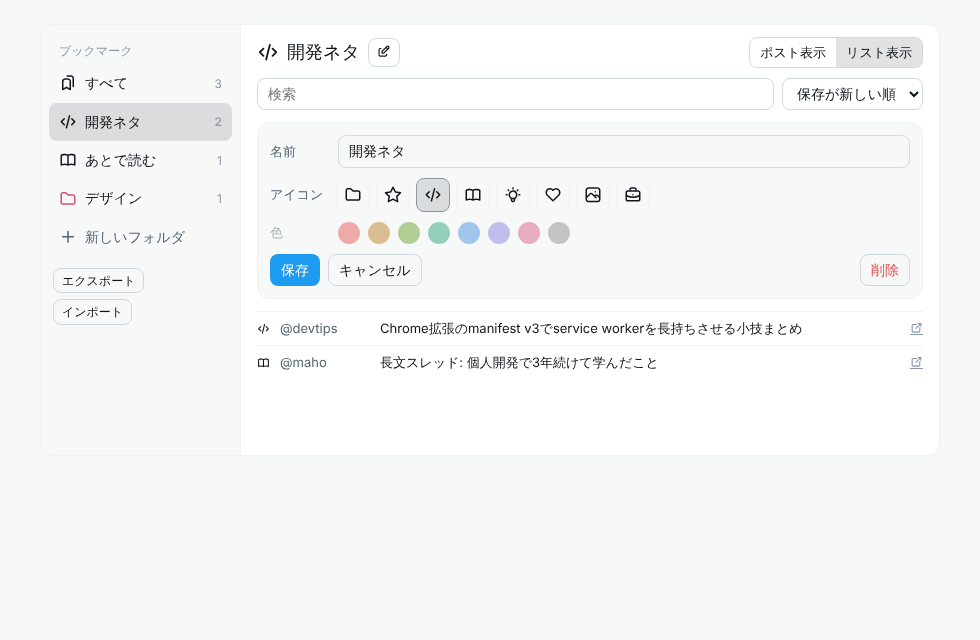
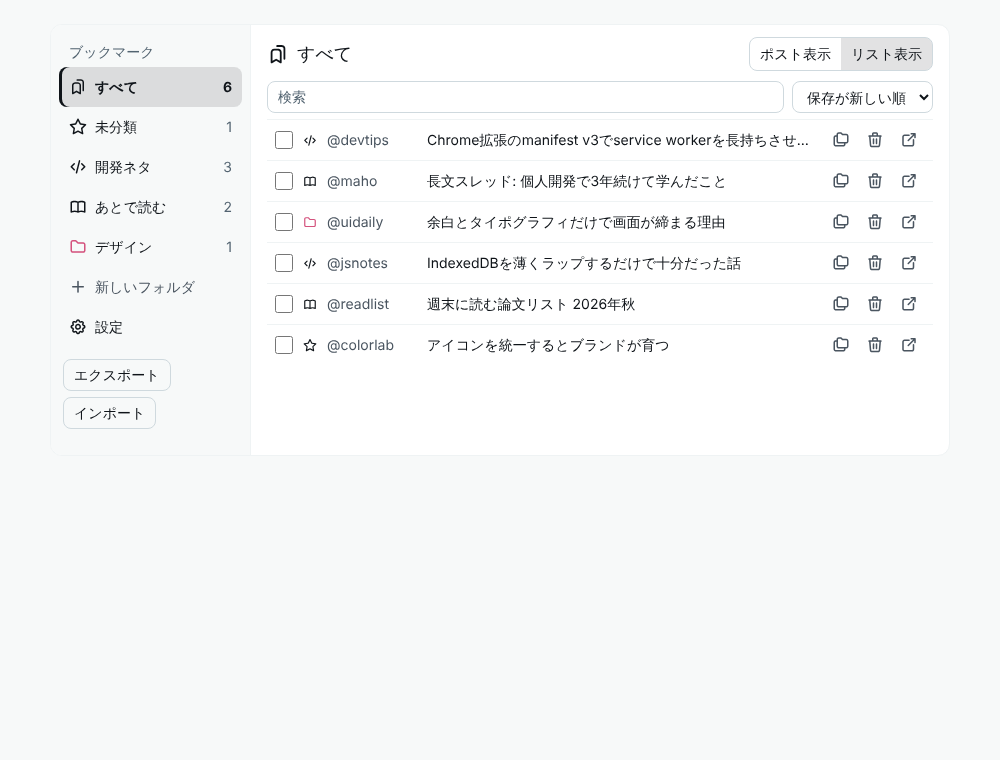
C: 見やすさの改善 (14px 以上、コントラスト 4.5:1、フォーカスリング、選択状態の非色表現、32px の判定、スクリーンショット更新)
Claude-Session: https://claude.ai/code/session_01LnJgDCHXRj2XU4oDVsQkv2

diff --git a/static/manager.css b/static/manager.css
@@ -1,81 +1,83 @@
 @import url("icons/tabler-icons.min.css");
 :root{
-  --text-primary:#0f1419;--text-secondary:#536471;--text-muted:#8b98a5;
+  --text-primary:#0f1419;--text-secondary:#4a5560;--text-muted:#536471;
   --surface-1:#f7f9f9;--surface-2:#fff;--surface-3:#fff;
   --border:#eff3f4;--border-strong:#cfd9de;--border-stronger:#8b98a5;
   --fill-ghost-hover:rgba(15,20,25,.06);--fill-ghost-selected:rgba(15,20,25,.12);--fill-control:#cfd9de;
-  --fill-accent:#1d9bf0;--on-accent:#fff;--bg-accent:#e8f5fe;--text-accent:#1a8cd8;
+  --fill-accent:#1d9bf0;--on-accent:#fff;--bg-accent:#e8f5fe;--text-accent:#0b6fb8;
+  --accent-strong:#0b6fb8;--danger:#c0302f;--danger-solid:#c0302f;
   --shadow-popover:0 8px 24px rgba(0,0,0,.12),0 2px 6px rgba(0,0,0,.08);--radius:8px;
 }
 @media (prefers-color-scheme:dark){:root{
-  --text-primary:#e7e9ea;--text-secondary:#71767b;--text-muted:#536471;
+  --text-primary:#e7e9ea;--text-secondary:#9aa2a8;--text-muted:#8b98a5;
   --surface-1:#16181c;--surface-2:#000;--surface-3:#16181c;
   --border:#2f3336;--border-strong:#536471;--border-stronger:#71767b;
   --fill-ghost-hover:rgba(231,233,234,.08);--fill-ghost-selected:rgba(231,233,234,.16);--fill-control:#2f3336;
-  --bg-accent:#031018;--text-accent:#1d9bf0;
+  --bg-accent:#031018;--text-accent:#1d9bf0;--danger:#f06a68;
 }}
 *{box-sizing:border-box}
 body{margin:0;padding:24px;background:var(--surface-1);color:var(--text-primary);font:14px/1.6 system-ui,"Hiragino Sans","Yu Gothic",sans-serif}
 h1{font-size:16px;font-weight:500;margin:0 0 4px}
-.note{color:var(--text-secondary);font-size:12px;margin:0 0 16px}
-button,input{font:inherit;color:inherit;background:transparent;border:.5px solid var(--border-strong);border-radius:var(--radius);padding:4px 10px;cursor:pointer}
+.note{color:var(--text-secondary);font-size:14px;margin:0 0 16px}
+button,input{min-height:32px;font:inherit;color:inherit;background:transparent;border:.5px solid var(--border-strong);border-radius:var(--radius);padding:4px 10px;cursor:pointer}
 input{cursor:text}
 body{padding:24px}
-select{font:inherit;color:inherit;background:transparent;border:.5px solid var(--border-strong);border-radius:var(--radius);padding:4px 10px}
+select{min-height:32px;font:inherit;color:inherit;background:transparent;border:.5px solid var(--border-strong);border-radius:var(--radius);padding:4px 10px}
 button:hover{background:var(--fill-ghost-hover)}
 button:disabled{cursor:not-allowed}
 .ps{display:grid;grid-template-columns:200px minmax(0,1fr);border:.5px solid var(--border);border-radius:12px;overflow:hidden;background:var(--surface-2);max-width:900px;margin:0 auto}
 .side{border-right:.5px solid var(--border);padding:12px 8px;background:var(--surface-1)}
-.side-title{font-size:12px;color:var(--text-muted);padding:4px 10px}
+.side-title{font-size:14px;color:var(--text-muted);padding:4px 10px}
 .fr{display:flex;align-items:center;gap:8px;padding:8px 10px;border-radius:8px;cursor:pointer}
-.fr:hover{background:var(--fill-ghost-hover)}.fr.on{background:var(--fill-ghost-selected);font-weight:500}
-.fr i{font-size:18px}.fr .n{margin-left:auto;font-size:12px;color:var(--text-muted)}
+.fr:hover{background:var(--fill-ghost-hover)}.fr.on{background:var(--fill-ghost-selected);font-weight:700;box-shadow:inset 3px 0 0 var(--text-primary)}
+.fr.on .n{color:var(--text-primary)}
+.fr i{font-size:18px}.fr .n{margin-left:auto;font-size:14px;color:var(--text-muted)}
 .fr-name{overflow:hidden;text-overflow:ellipsis;white-space:nowrap}
 .fr.add{color:var(--text-secondary)}
-.io button,.file-btn{white-space:nowrap}.io{display:flex;flex-wrap:wrap;gap:6px;margin:12px 4px 0}.io button,.file-btn{font-size:12px;padding:2px 8px}
+.io button,.file-btn{white-space:nowrap}.io{display:flex;flex-wrap:wrap;gap:6px;margin:12px 4px 0}.io button,.file-btn{font-size:14px;padding:2px 10px;min-height:32px;display:inline-flex;align-items:center}
 .file-btn{border:.5px solid var(--border-strong);border-radius:var(--radius);cursor:pointer}
 .file-btn:hover{background:var(--fill-ghost-hover)}
 .main{padding:12px 16px;min-height:430px}
 .bar{display:flex;align-items:center;gap:8px;margin-bottom:10px;flex-wrap:wrap}
 .bar>i{font-size:22px}.bar-name{font-size:18px;font-weight:500}
-.icon-only{padding:2px 8px}
+.icon-only{min-width:32px;padding:2px 8px}
 .seg{display:flex;border:.5px solid var(--border-strong);border-radius:8px;overflow:hidden;margin-left:auto}
-.seg button{border:none;border-radius:0;padding:4px 10px;font-size:13px;white-space:nowrap}.seg button.on{background:var(--fill-ghost-selected)}
+.seg button{border:none;border-radius:0;padding:4px 10px;font-size:14px;white-space:nowrap}.seg button.on{background:var(--fill-ghost-selected)}
 .tools{display:flex;gap:8px;margin-bottom:6px}.tools input{flex:1}
-.post{display:flex;gap:10px;padding:10px 0;border-top:.5px solid var(--border)}
-.av{width:36px;height:36px;border-radius:50%;background:var(--fill-control);flex:none;display:flex;align-items:center;justify-content:center;font-size:12px;font-weight:500;object-fit:cover}
+.post{display:flex;gap:12px;padding:14px 8px;border-top:.5px solid var(--border)}
+.av{width:36px;height:36px;border-radius:50%;background:var(--fill-control);flex:none;display:flex;align-items:center;justify-content:center;font-size:14px;font-weight:500;object-fit:cover}
 .post-body{min-width:0;flex:1}
 .post-head{font-weight:500}.muted{font-weight:400;color:var(--text-muted)}
-.text{line-height:1.5;white-space:pre-wrap;overflow-wrap:anywhere}
-.media img{max-width:100%;border-radius:12px;margin-top:6px;border:.5px solid var(--border)}
-.act{display:flex;gap:8px;margin-top:6px;color:var(--text-muted);font-size:13px;align-items:center;flex-wrap:wrap}
+.text{margin-top:2px;line-height:1.6;white-space:pre-wrap;overflow-wrap:anywhere}
+.media img{max-width:100%;border-radius:12px;margin-top:10px;border:.5px solid var(--border)}
+.act{display:flex;gap:8px;margin-top:10px;color:var(--text-muted);font-size:14px;align-items:center;flex-wrap:wrap}
 .ext-link{margin-left:auto;color:var(--text-muted)}
-.mini{display:flex;align-items:center;gap:10px;padding:6px 0;border-top:.5px solid var(--border);font-size:13px}
+.mini{display:flex;align-items:center;gap:10px;padding:4px 8px;min-height:40px;border-top:.5px solid var(--border);font-size:14px}
 .mini .t{flex:1;white-space:nowrap;overflow:hidden;text-overflow:ellipsis}
 .handle{color:var(--text-secondary);width:90px;overflow:hidden;text-overflow:ellipsis;white-space:nowrap}
 .edit{margin:12px 0;border:.5px solid var(--border);border-radius:12px;padding:12px;background:var(--surface-1)}
 .erow{display:flex;gap:8px;align-items:center;margin-bottom:10px}.erow:last-child{margin-bottom:0}.erow.wrap{flex-wrap:wrap;gap:6px}
-.elabel{font-size:13px;color:var(--text-secondary);min-width:60px;white-space:nowrap;flex:none}
+.elabel{font-size:14px;color:var(--text-secondary);min-width:60px;white-space:nowrap;flex:none}
 .grow{flex:1}
-.sw{width:22px;height:22px;border-radius:50%;padding:0;border:2px solid transparent}.sw.on{border-color:var(--text-primary)}
+.sw{position:relative;width:32px;height:32px;min-height:32px;padding:5px;border:0;border-radius:50%;background-clip:content-box}
+.sw.on{box-shadow:0 0 0 2px var(--text-primary) inset}
+.sw.on::after{content:'✓';position:absolute;inset:0;display:flex;align-items:center;justify-content:center;color:#fff;font-weight:700;text-shadow:0 0 3px rgba(0,0,0,.7)}
 .ic{width:34px;height:34px;display:inline-flex;align-items:center;justify-content:center;border-radius:8px;font-size:18px;border:.5px solid var(--border);padding:0}
-.ic.on{background:var(--fill-ghost-selected);border-color:var(--border-stronger)}
+.ic.on{background:var(--fill-ghost-selected);border:2px solid var(--text-primary)}
 .disabled{opacity:.45;pointer-events:none}
-.primary{background:var(--fill-accent);color:var(--on-accent);border-color:transparent}.primary:hover{background:var(--fill-accent);opacity:.9}
-.danger{color:#e24b4a;margin-left:auto}.error{color:#e24b4a;margin:0 0 8px}
+.primary{background:var(--accent-strong);color:#fff;border-color:transparent}.primary:hover{background:var(--accent-strong);opacity:.9}
+.danger{color:var(--danger);margin-left:auto}.error{color:var(--danger);margin:0 0 8px}
 .empty{color:var(--text-secondary)}
 @media (max-width:640px){.ps{grid-template-columns:1fr}.side{border-right:0;border-bottom:.5px solid var(--border)}}
 .setting{display:flex;gap:10px;align-items:flex-start;padding:10px 0;cursor:pointer}
 .setting input{margin-top:4px;accent-color:var(--fill-accent)}
-.setting-desc{display:block;font-size:13px;margin-top:2px}
+.setting-desc{display:block;font-size:14px;margin-top:2px}
 .setting-group{border:.5px solid var(--border);border-radius:12px;margin:12px 0;padding:4px 12px 8px}
 .setting-group legend{padding:0 6px;font-weight:500}
 
 /* ---- 整理 (複数選択 / 操作 / D&D / 確認 / トースト) ---- */
-.rows{outline:none}
 .post,.mini{position:relative}
 .post{align-items:flex-start}
-.post:focus-visible,.mini:focus-visible{outline:2px solid var(--fill-accent);outline-offset:-2px;border-radius:8px}
 .post.selected,.mini.selected{background:var(--bg-accent);box-shadow:inset 3px 0 0 var(--fill-accent)}
 .sel{width:18px;height:18px;margin:8px 0 0;padding:0;flex:none;accent-color:var(--fill-accent);cursor:pointer}
 .mini .sel{margin:0}
@@ -91,14 +93,22 @@ button:disabled{cursor:not-allowed}
 .picker-host{color:var(--text-primary)}
 .bulk{display:flex;gap:8px;align-items:center;flex-wrap:wrap;margin:8px 0;padding:8px 10px;border:.5px solid var(--border-strong);border-radius:12px;background:var(--bg-accent)}
 .bulk-clear{margin-left:auto}
-.chip{display:inline-flex;align-items:center;gap:4px;min-height:24px;padding:0 8px;border-radius:12px;cursor:pointer}
-.chip .ti-x{font-size:12px;opacity:.7}
+.chip{display:inline-flex;align-items:center;gap:4px;min-height:32px;padding:0 10px;border-radius:16px;cursor:pointer}
+.chip .ti-x{font-size:14px;opacity:.7}
 .chip:hover{background:var(--fill-ghost-hover)}
 .fr.drop{outline:2px dashed var(--fill-accent);outline-offset:-2px;background:var(--bg-accent)}
 .overlay{position:fixed;inset:0;z-index:50;display:flex;align-items:center;justify-content:center;background:rgba(0,0,0,.45)}
 .dialog{width:min(420px,calc(100vw - 32px));padding:16px;background:var(--surface-3);border:.5px solid var(--border-strong);border-radius:12px;box-shadow:var(--shadow-popover)}
 .dialog p{margin:0 0 16px}
 .dialog-actions{display:flex;gap:8px;justify-content:flex-end}
-.danger-solid{background:#e24b4a;color:#fff;border-color:transparent}.danger-solid:hover{background:#e24b4a;opacity:.9}
+.danger-solid{background:var(--danger-solid);color:#fff;border-color:transparent}.danger-solid:hover{background:var(--danger-solid);opacity:.9}
 .toast{position:fixed;left:50%;bottom:24px;transform:translateX(-50%);z-index:60;display:flex;gap:12px;align-items:center;padding:10px 14px;background:var(--text-primary);color:var(--surface-2);border-radius:12px;box-shadow:var(--shadow-popover)}
 .toast button{color:inherit;border-color:currentColor}
+
+/* ---- 見やすさ (v4-C) ---- */
+body{font-size:14px;line-height:1.6}
+::placeholder{color:var(--text-muted);opacity:1}
+:focus-visible{outline:2px solid var(--fill-accent);outline-offset:2px}
+.sel:focus-visible,.fr:focus-visible{outline-offset:-2px}
+.fr{min-height:40px}
+.link-accent{color:var(--text-accent)}

diff --git a/src/manager/App.tsx b/src/manager/App.tsx
@@ -566,12 +566,12 @@ function Row(props: {
             const only = b.folderIds.length === 1 && id === INBOX_ID; // 未分類しか無いときは外す意味がない
             const label = t('removeFromFolder', displayName(f));
             return only ? (
-              <span class="tag" style={f.color ? { color: f.color } : undefined}>
-                <Icon name={f.icon} /> {displayName(f)}
+              <span class="tag">
+                <Icon name={f.icon} color={f.color} /> {displayName(f)}
               </span>
             ) : (
-              <button class="tag chip" style={f.color ? { color: f.color } : undefined} title={label} aria-label={label} onClick={() => props.onRemoveFromFolder(id)}>
-                <Icon name={f.icon} /> {displayName(f)} <Icon name="ti-x" />
+              <button class="tag chip" title={label} aria-label={label} onClick={() => props.onRemoveFromFolder(id)}>
+                <Icon name={f.icon} color={f.color} /> {displayName(f)} <Icon name="ti-x" />
               </button>
             );
           })}
@@ -609,7 +609,7 @@ function EditPanel({ folder, onDone, onRequestDelete }: { folder: Folder; onDone
       <div class="erow wrap">
         <span class="elabel">{t('icon')}</span>
         {ICONS.slice(0, 8).map((i) => (
-          <button class={`ic${i === icon ? ' on' : ''}`} aria-label={i} onClick={() => setIcon(i)}>
+          <button class={`ic${i === icon ? ' on' : ''}`} aria-label={i} aria-pressed={i === icon} onClick={() => setIcon(i)}>
             <Icon name={i} />
           </button>
         ))}
@@ -621,6 +621,7 @@ function EditPanel({ folder, onDone, onRequestDelete }: { folder: Folder; onDone
             class={`sw${c === color ? ' on' : ''}`}
             style={{ background: c }}
             aria-label={c}
+            aria-pressed={c === color}
             disabled={!colorOk}
             onClick={() => setColor(c)}
           />

diff --git a/src/shared/folderPicker.ts b/src/shared/folderPicker.ts
@@ -63,11 +63,11 @@ export function createFolderPicker(opts: {
     const input = document.createElement('input');
     input.placeholder = t('newFolderPlaceholder');
     input.setAttribute('aria-label', t('newFolder'));
-    input.style.cssText = `flex:1;min-width:0;background:transparent;color:${th.fg};border:.5px solid ${th.border};border-radius:8px;padding:4px 8px`;
+    input.style.cssText = `flex:1;min-width:0;background:transparent;color:${th.fg};border:.5px solid ${th.border};border-radius:8px;padding:4px 8px;min-height:32px`;
     const add = document.createElement('button');
     add.type = 'submit';
     add.textContent = t('add');
-    add.style.cssText = `background:${th.accent};color:#fff;border:0;border-radius:8px;padding:4px 10px;cursor:pointer`;
+    add.style.cssText = 'background:#0b6fb8;color:#fff;border:0;border-radius:8px;padding:4px 12px;min-height:32px;cursor:pointer'; // 白文字で 4.5:1 以上になる濃い青
     row.append(input, add);
     row.addEventListener('submit', async (e) => {
       e.preventDefault();

diff --git a/static/popup.css b/static/popup.css
@@ -3,5 +3,5 @@ body{margin:0;padding:8px;width:260px}
 .sub{padding:0 8px 8px;color:var(--text-secondary)}
 .pr{display:flex;gap:8px;align-items:center;padding:6px 8px;border-radius:8px;cursor:pointer;width:100%;border:0;text-align:left}
 .pr:hover{background:var(--fill-ghost-hover)}.pr.link{color:var(--text-accent)}
-.rec{padding:2px 8px 6px;font-size:12px;color:var(--text-secondary)}
+.rec{padding:2px 8px 6px;font-size:14px;color:var(--text-secondary)}
 .rec div{white-space:nowrap;overflow:hidden;text-overflow:ellipsis;padding:2px 0}

diff --git a/docs/MANUAL_TEST.md b/docs/MANUAL_TEST.md
@@ -72,3 +72,10 @@
 - [ ] 左のフォルダをドラッグして並べ替えられ、再読み込み後も保持される。「未分類」は常に「すべて」の次で、動かせない
 - [ ] 矢印キーで行移動、Space で選択、Delete で削除確認、Esc で選択解除
 - [ ] x.com で保存/解除すると、開いている manager の一覧と件数が自動で更新される
+
+## v4-C 見やすさ (manager / popup / ポップオーバー)
+- [ ] manager・popup の文字が読みやすい (14px 以上、補助文字も薄すぎない)。ライト/ダーク両方
+- [ ] Tab キーで移動したとき、ボタン・入力・フォルダ行・行 (ポスト) にフォーカスリングが見える
+- [ ] 選択中のフォルダ (太字+左線)、アイコン (太枠)、色 (✓ マーク) が色以外でも分かる
+- [ ] ボタン・アイコンが小さすぎず押しやすい (32px 以上)
+- [ ] x.com のポップオーバーの入力欄・「追加」ボタンが押しやすく、白文字が読める (X の 3 テーマ)
